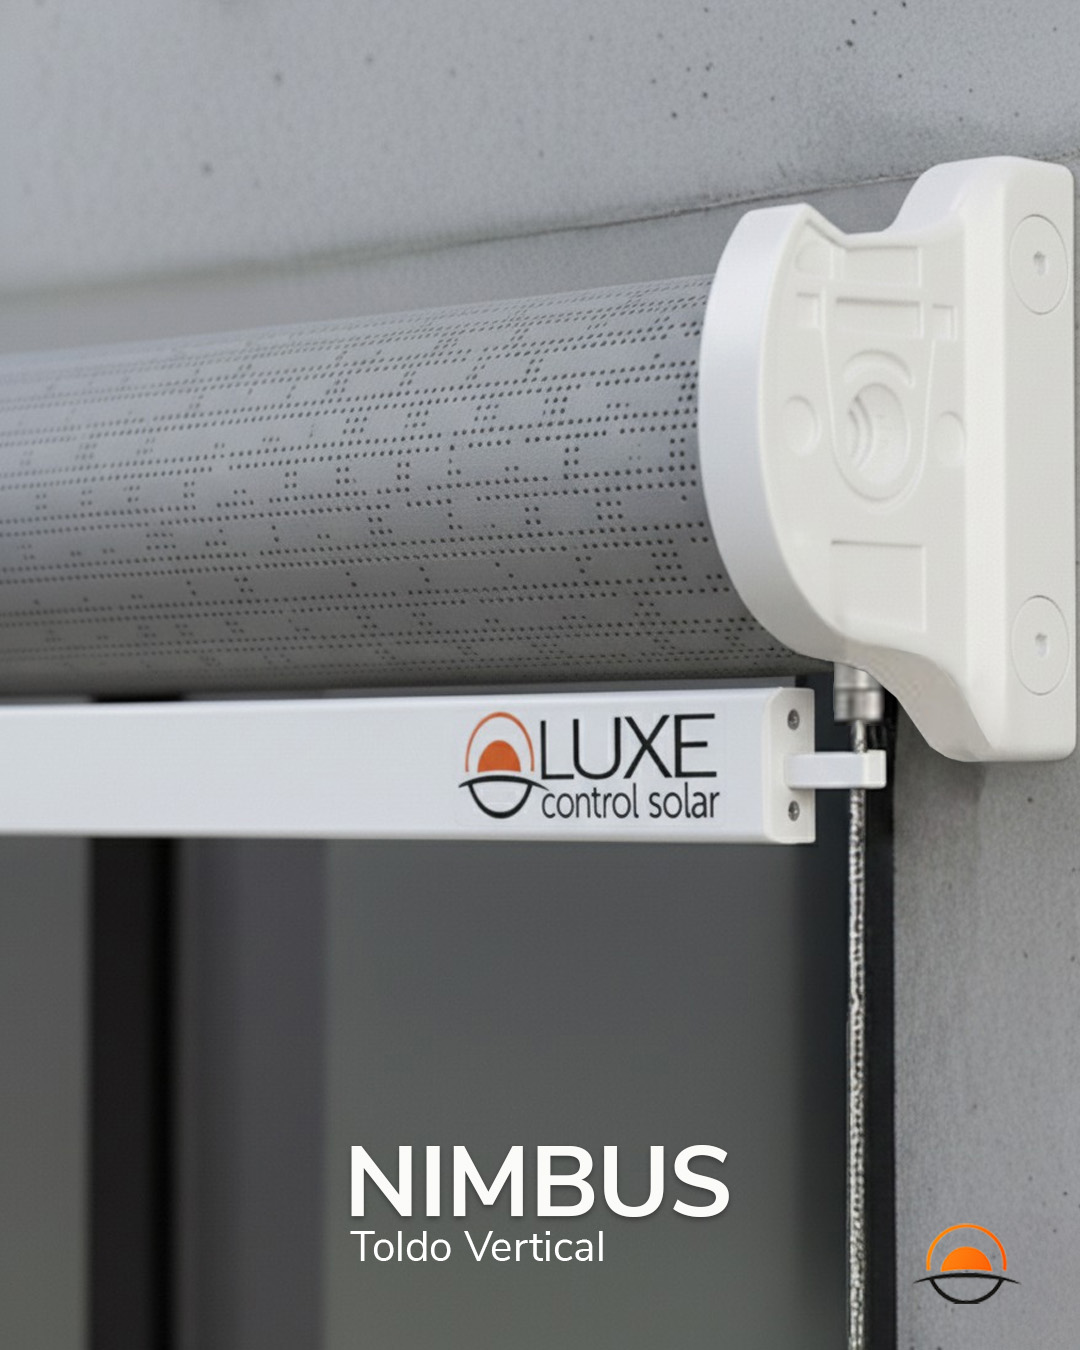
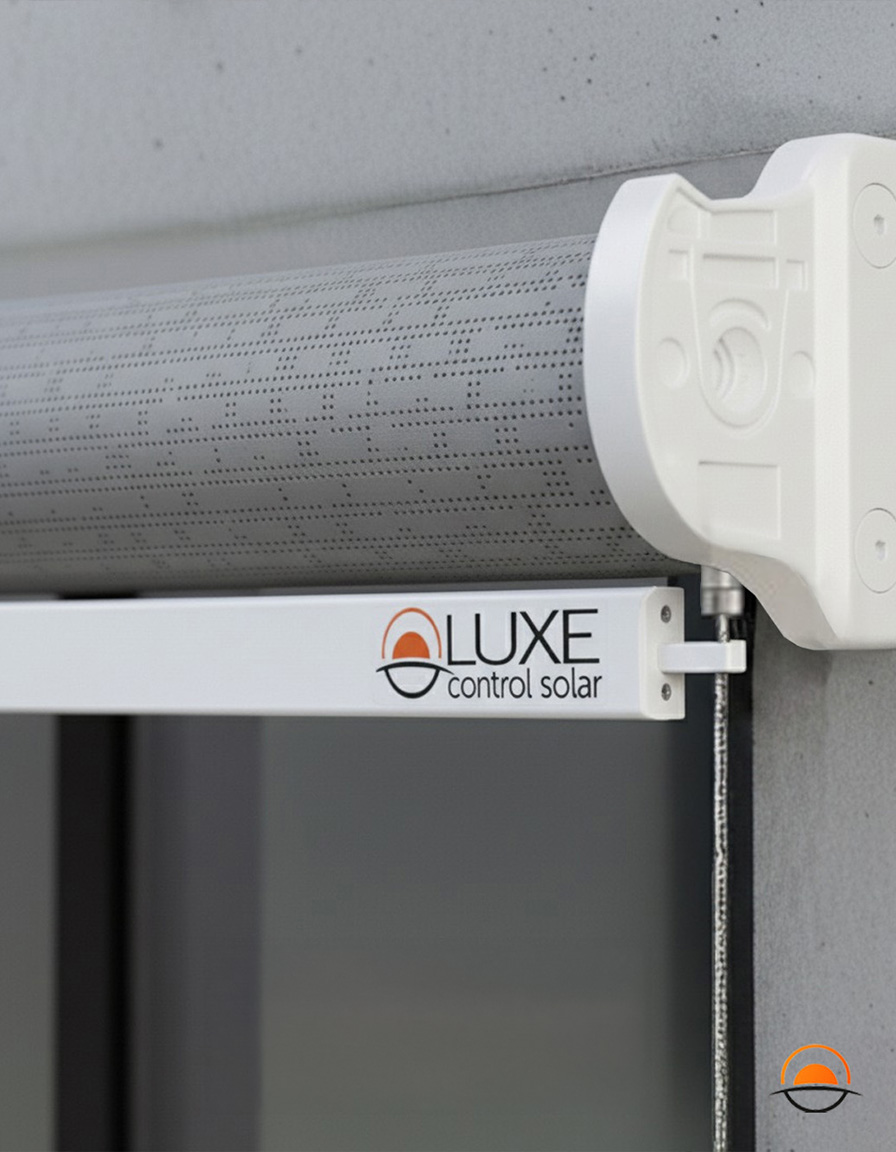
agregando fotos

diff --git a/src/data/products.ts b/src/data/products.ts
@@ -41,7 +41,7 @@ export const categories: Category[] = [
           "/assets/nimbus-gallery-1.jpg",
           "/assets/nimbus-gallery-2.jpg",
           "/assets/nimbus-gallery-3.jpg",
-          "/assets/nimbus-gallery-4.png"
+          "/assets/nimbus-gallery-4.jpg"
           
         ],
         
@@ -66,7 +66,7 @@ export const categories: Category[] = [
         gallery: [
           "/assets/solaris-gallery-1.png",
           "/assets/solaris-gallery-2.png",
-          "/assets/solaris-gallery-3.png",
+          "/assets/solaris-gallery-3.jpg",
           "/assets/solaris-gallery-4.jpg"
         ],
         specs: {
@@ -126,7 +126,7 @@ export const categories: Category[] = [
           "/assets/ares-gallery-1.png",
           "/assets/ares-gallery-2.png",
           "/assets/ares-gallery-3.jpg",
-          "/assets/ares-gallery-4.png"
+          "/assets/ares-gallery-4.jpg"
           
         ],
         specs: {
@@ -148,6 +148,12 @@ export const categories: Category[] = [
           "Inclinación ajustable.",
           "Cuidada estética en todos sus componentes.",
           "Facilidad de instalación."
+        ],
+         gallery: [
+          "/assets/a1-premium-gallery-1.jpeg",
+          "/assets/a1-premium-gallery-2.jpg"
+          
+          
         ],
         
         specs: {
@@ -174,8 +180,8 @@ export const categories: Category[] = [
          gallery: [
           "/assets/m1-premium-gallery-1.jpg",
           "/assets/m1-premium-gallery-2.jpg",
-          "/assets/m1-premium-gallery-3.jpg",
-          "/assets/m1-premium-gallery-4.png"
+          "/assets/m1-premium-gallery-3.jpeg",
+          "/assets/m1-premium-gallery-4.jpeg"
           
         ],
         specs: {
@@ -206,7 +212,7 @@ export const categories: Category[] = [
           "Facilidad de instalación."
         ],
          gallery: [
-          "/assets/indico-gallery-1.png",
+          "/assets/indico-gallery-1.jpg",
           "/assets/indico-gallery-2.png",
           "/assets/indico-gallery-3.jpg",
           "/assets/indico-gallery-4.jpg"